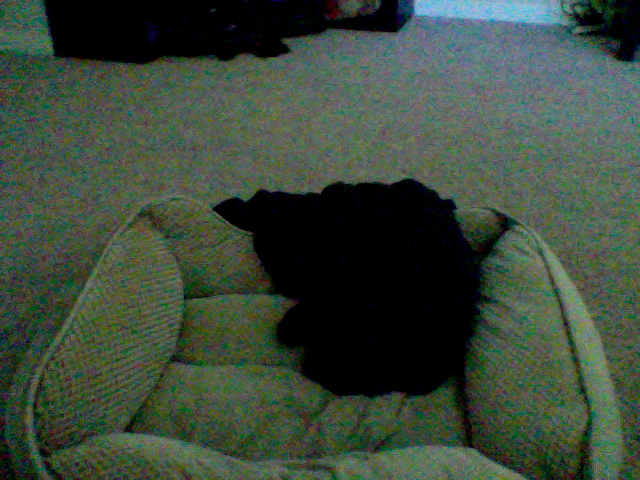
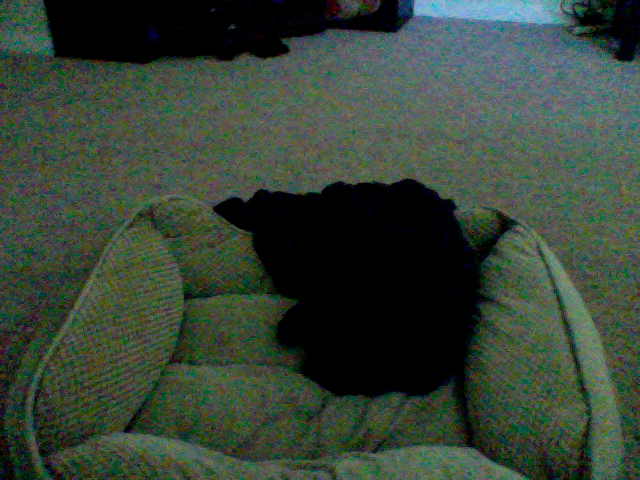
update at Month05Day08Time18:33

diff --git a/index.html b/index.html
@@ -39,8 +39,8 @@
       <!-- Example row of columns -->
       <div class="row">
         <div class="col-md-4">
-	<p>This picture was updated at Month05Day08Time18:32</p>
-		<img src="2_pic.png" />
+	<p>This picture was updated at Month05Day08Time18:33</p>
+		<img src="10_pic.png" />
         </div>
       </div>
 
